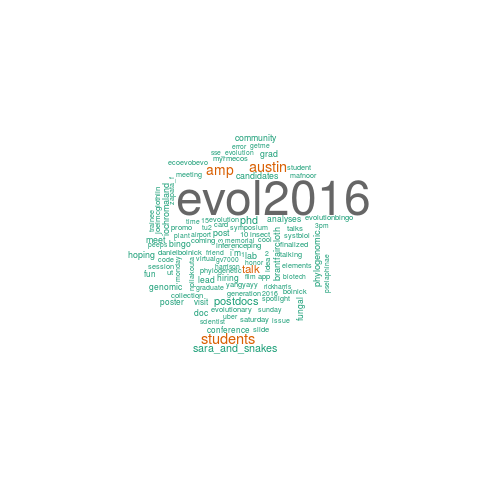
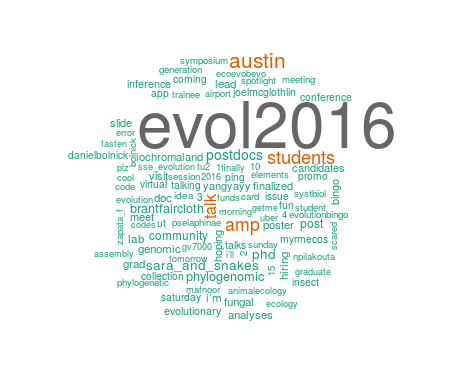
post about twitter stream for evol

Changed region(s): [[0.1542, 0.1467, 0.7709, 0.8507], [0.8018, 0.264, 0.8634, 0.4107]]

diff --git a/_posts/articles/2016-06-16-using-streamr-tidytext-to-conferences-with-twitter.md b/_posts/articles/2016-06-16-using-streamr-tidytext-to-conferences-with-twitter.md
@@ -88,6 +88,8 @@ fig<-tidy_tw %>%
 dev.off()
 ```
 
-This will then get you some approximation of the wordcloud below (words are randomly assembled so it will end up looking fairly different each time).
+This will then get you some approximation of the wordcloud below (words are randomly assembled so it will end up looking fairly different each time). Since I started pulling down tweets there have only been 450, so there's not a huge difference in word numbers that would be picked up by the coloring. I figure by this evening it will start picking up considerably.
+
+Anyway, I think I'll be able to pull some of these tweets off my home computer while I'm in Austin to give further silly wordcloud updates, but we'll see.
 
 <img src="https://thomas-keller.github.io/images/evol2016_wordcloud.png" width="800">
